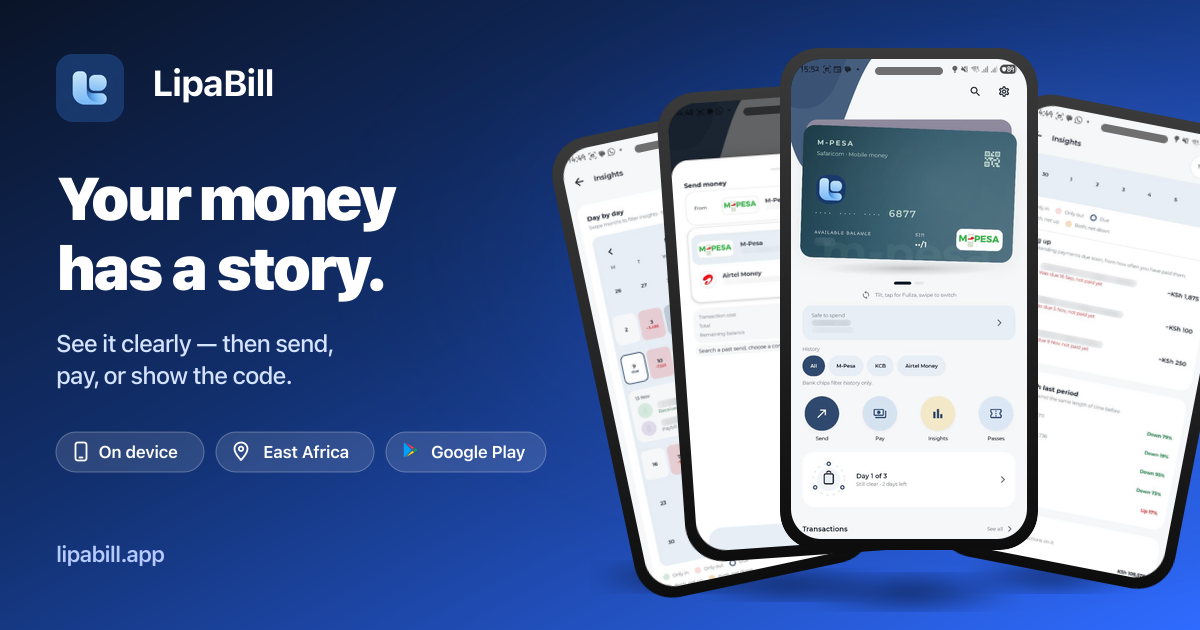
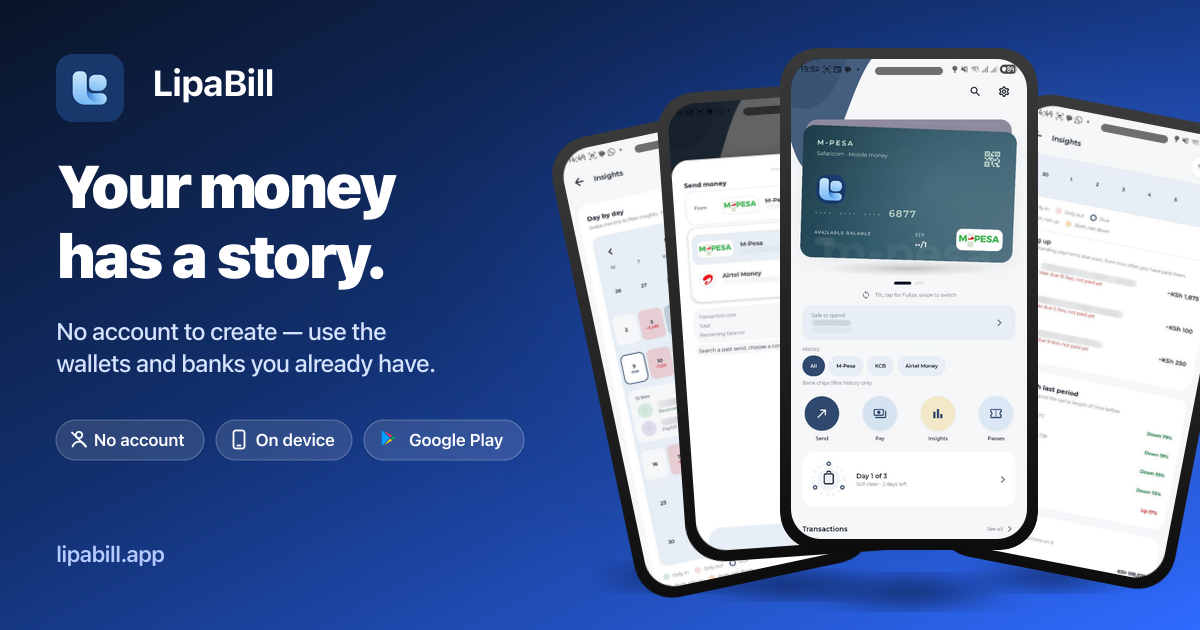
Clarify on the share card that LipaBill needs no account.
Surface “use wallets and banks you already have” on the OG image and Twitter blurb so new shares set the expectation before install.

diff --git a/src/lib/site.ts b/src/lib/site.ts
@@ -7,7 +7,7 @@ export const site = {
   description:
     "Rent, family, a night out, the train you already booked. LipaBill is a local-first money tracker for Kenya, Tanzania, Uganda, and Rwanda on Google Play — the ledger stays on this phone, then you can send, pay, or show the code even when data is weak. Send and Pay still run on Kenya M-Pesa.",
   shortDescription:
-    "Your money has a story. See it clearly — then send, pay, share a social code, or show a pass.",
+    "No LipaBill account — use the wallets and banks you already have. See where the money went, then send, pay, or show a pass.",
   keywords: [
     "LipaBill",
     "East Africa money tracker",
